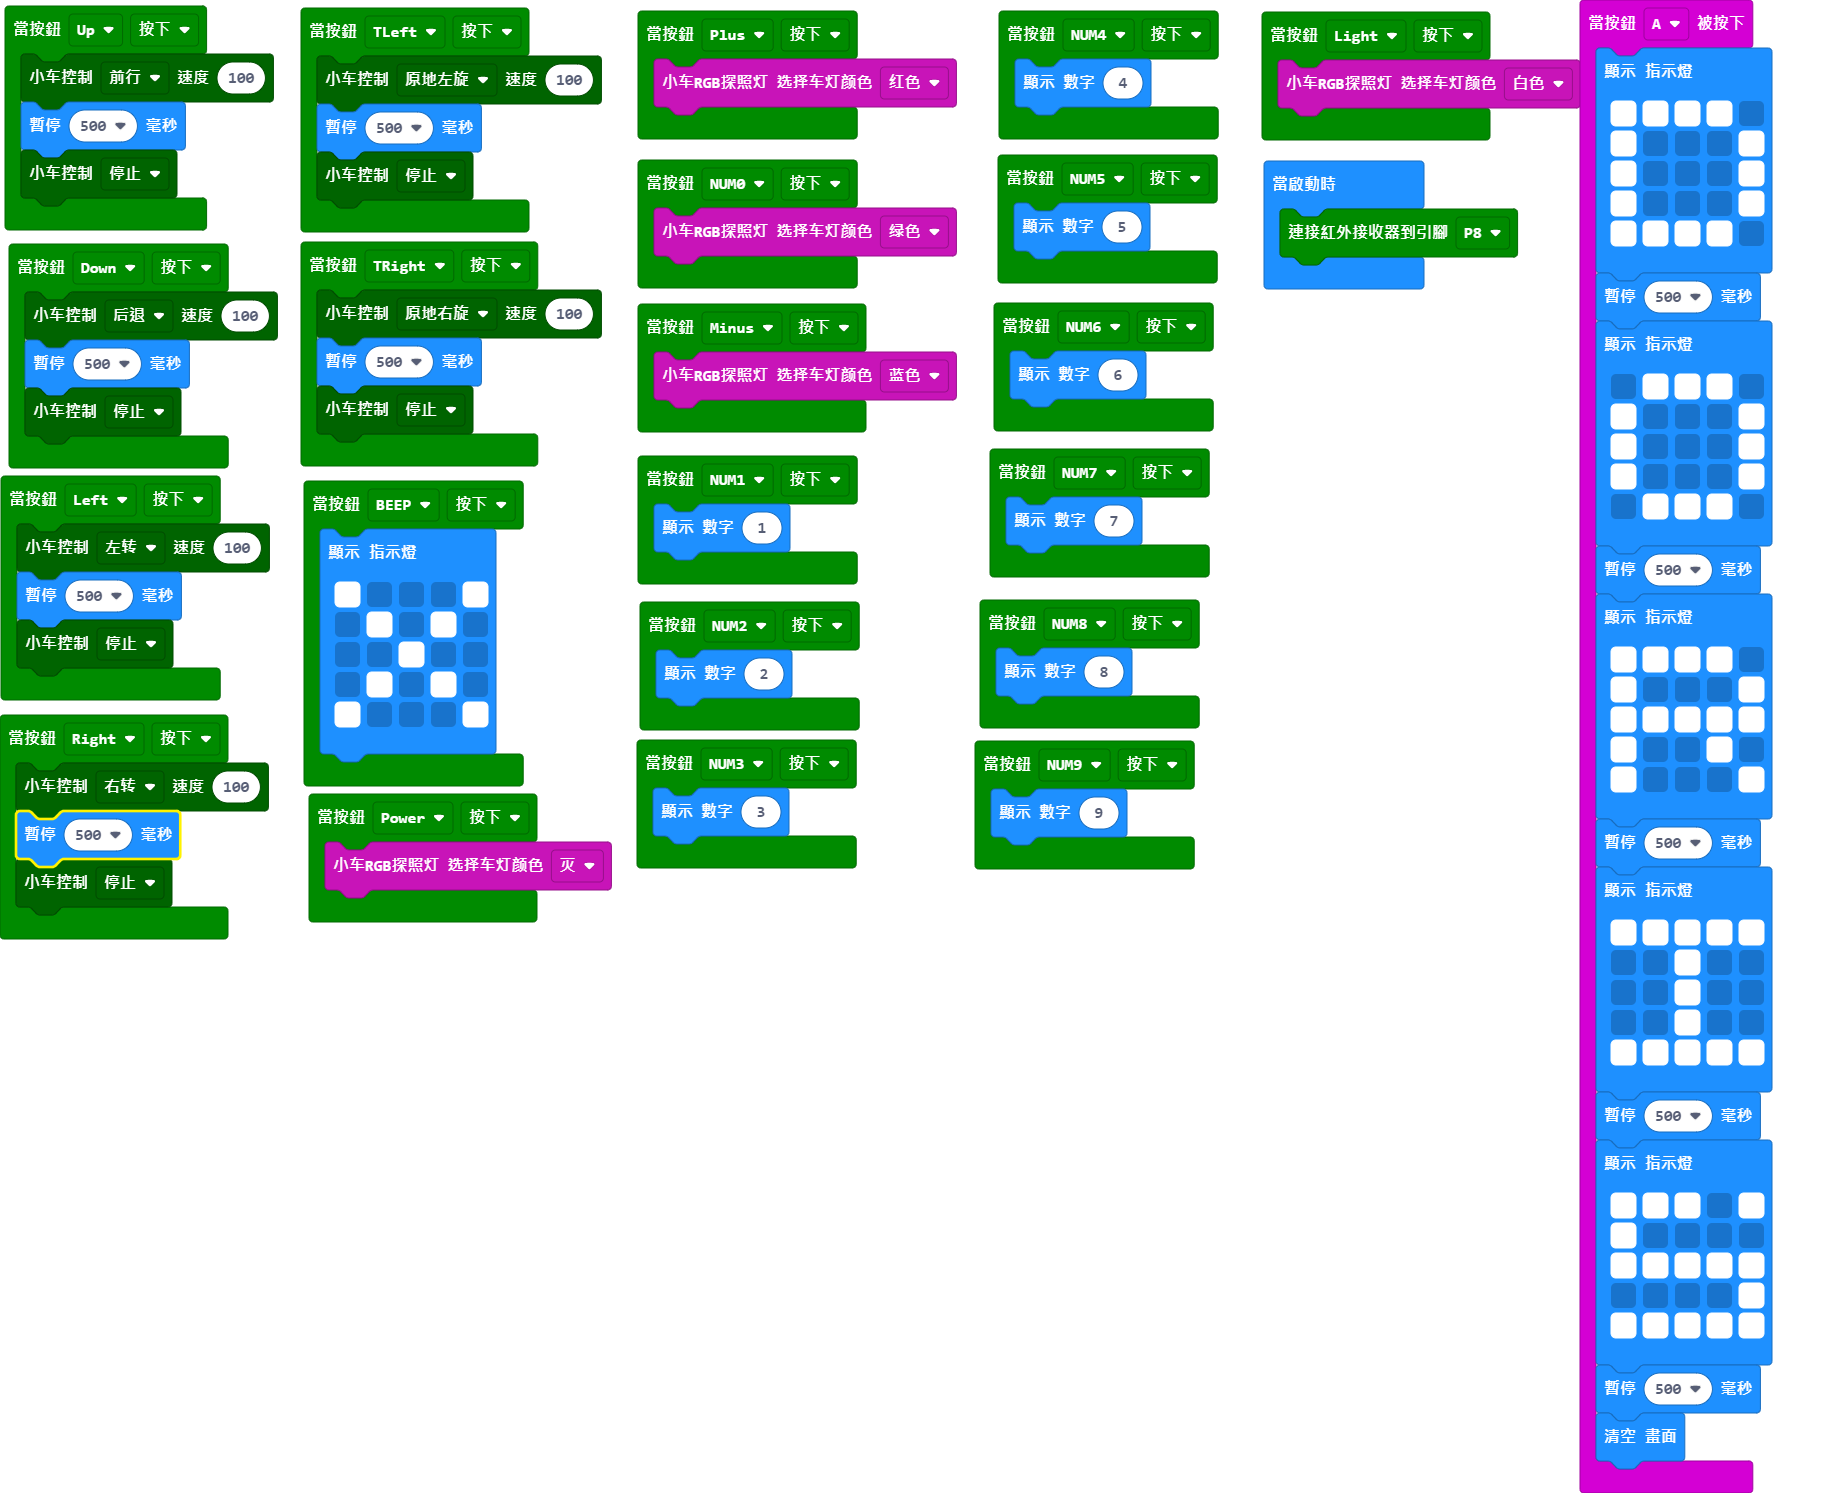
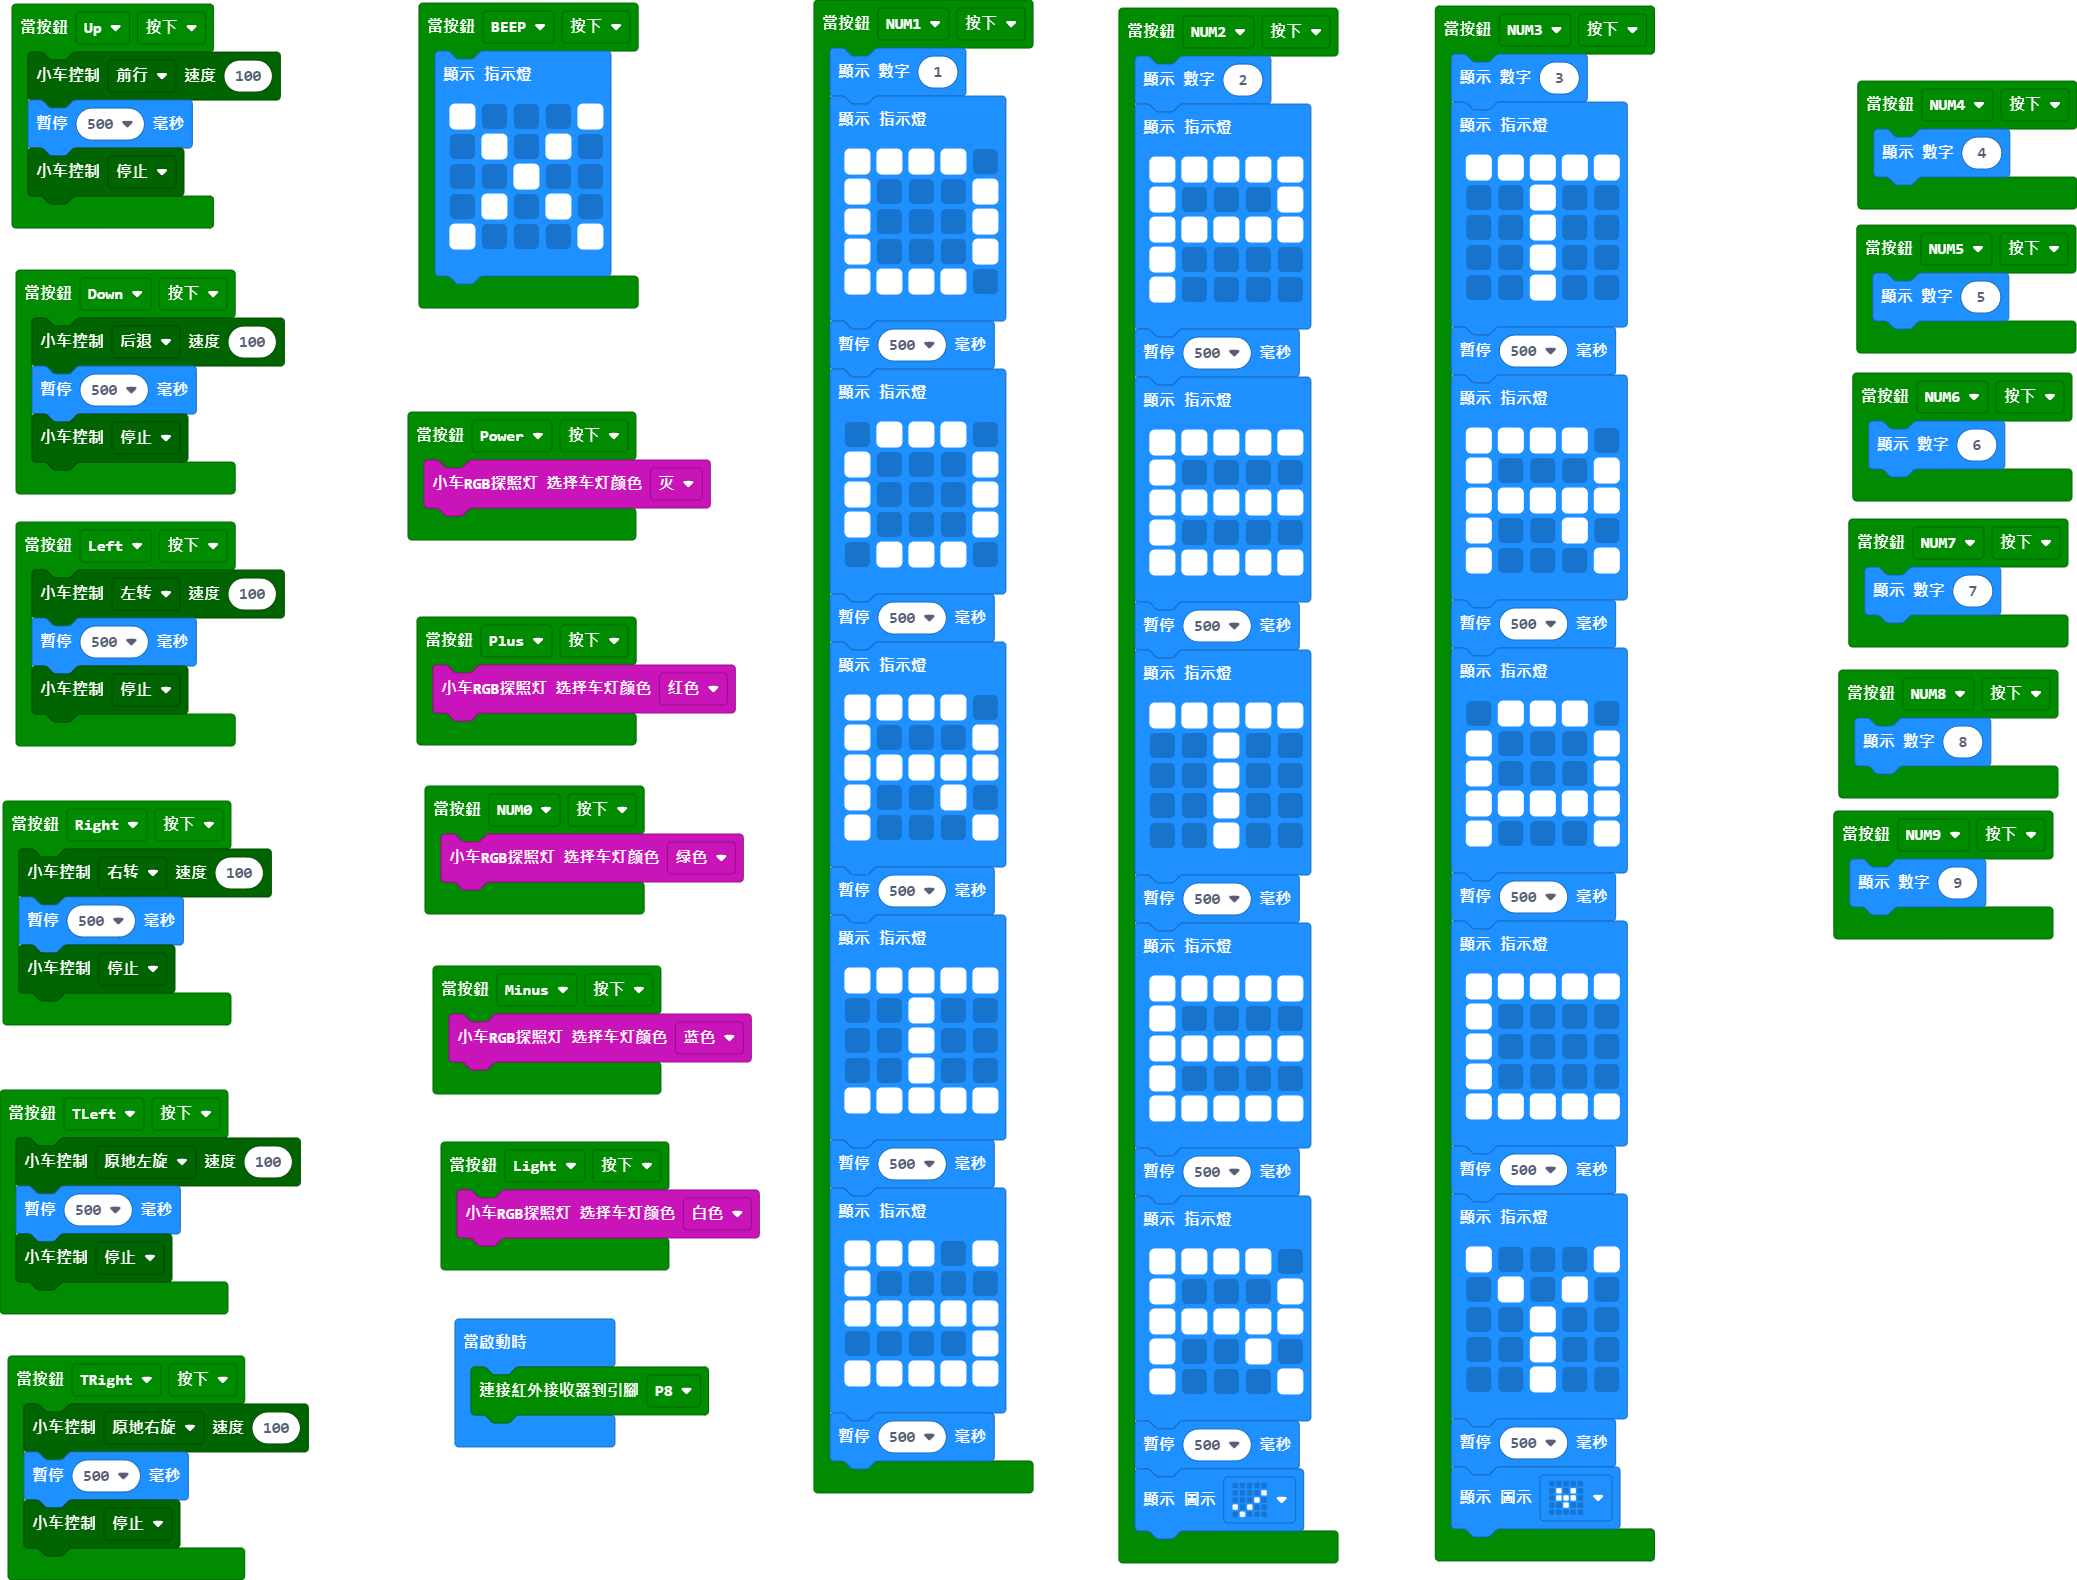
更新 main.blocks, main.ts

diff --git a/main.ts b/main.ts
@@ -18,8 +18,6 @@ makerbit.onIrButton(IrButton.Light, IrButtonAction.Pressed, function () {
 })
 makerbit.onIrButton(IrButton.NUM1, IrButtonAction.Pressed, function () {
     basic.showNumber(1)
-})
-input.onButtonPressed(Button.A, function () {
     basic.showLeds(`
         # # # # .
         # . . . #
@@ -60,10 +58,50 @@ input.onButtonPressed(Button.A, function () {
         # # # # #
         `)
     basic.pause(500)
-    basic.clearScreen()
 })
 makerbit.onIrButton(IrButton.NUM3, IrButtonAction.Pressed, function () {
     basic.showNumber(3)
+    basic.showLeds(`
+        # # # # #
+        . . # . .
+        . . # . .
+        . . # . .
+        . . # . .
+        `)
+    basic.pause(500)
+    basic.showLeds(`
+        # # # # .
+        # . . . #
+        # # # # #
+        # . . # .
+        # . . . #
+        `)
+    basic.pause(500)
+    basic.showLeds(`
+        . # # # .
+        # . . . #
+        # . . . #
+        # # # # #
+        # . . . #
+        `)
+    basic.pause(500)
+    basic.showLeds(`
+        # # # # #
+        # . . . .
+        # . . . .
+        # . . . .
+        # # # # #
+        `)
+    basic.pause(500)
+    basic.showLeds(`
+        # . . . #
+        . # . # .
+        . . # . .
+        . . # . .
+        . . # . .
+        `)
+    basic.pause(500)
+    basic.showIcon(IconNames.SmallHeart)
 })
 makerbit.onIrButton(IrButton.Power, IrButtonAction.Pressed, function () {
     mbit_小车类.RGB_Car_Big2(mbit_小车类.enColor.OFF)
@@ -76,6 +114,47 @@ makerbit.onIrButton(IrButton.NUM7, IrButtonAction.Pressed, function () {
 })
 makerbit.onIrButton(IrButton.NUM2, IrButtonAction.Pressed, function () {
     basic.showNumber(2)
+    basic.showLeds(`
+        # # # # #
+        # . . . #
+        # # # # #
+        # . . . .
+        # . . . .
+        `)
+    basic.pause(500)
+    basic.showLeds(`
+        # # # # #
+        # . . . .
+        # # # # #
+        # . . . .
+        # # # # #
+        `)
+    basic.pause(500)
+    basic.showLeds(`
+        # # # # #
+        . . # . .
+        . . # . .
+        . . # . .
+        . . # . .
+        `)
+    basic.pause(500)
+    basic.showLeds(`
+        # # # # #
+        # . . . .
+        # # # # #
+        # . . . .
+        # # # # #
+        `)
+    basic.pause(500)
+    basic.showLeds(`
+        # # # # .
+        # . . . #
+        # # # # #
+        # . . # .
+        # . . . #
+        `)
+    basic.pause(500)
+    basic.showIcon(IconNames.Yes)
 })
 makerbit.onIrButton(IrButton.NUM8, IrButtonAction.Pressed, function () {
     basic.showNumber(8)
